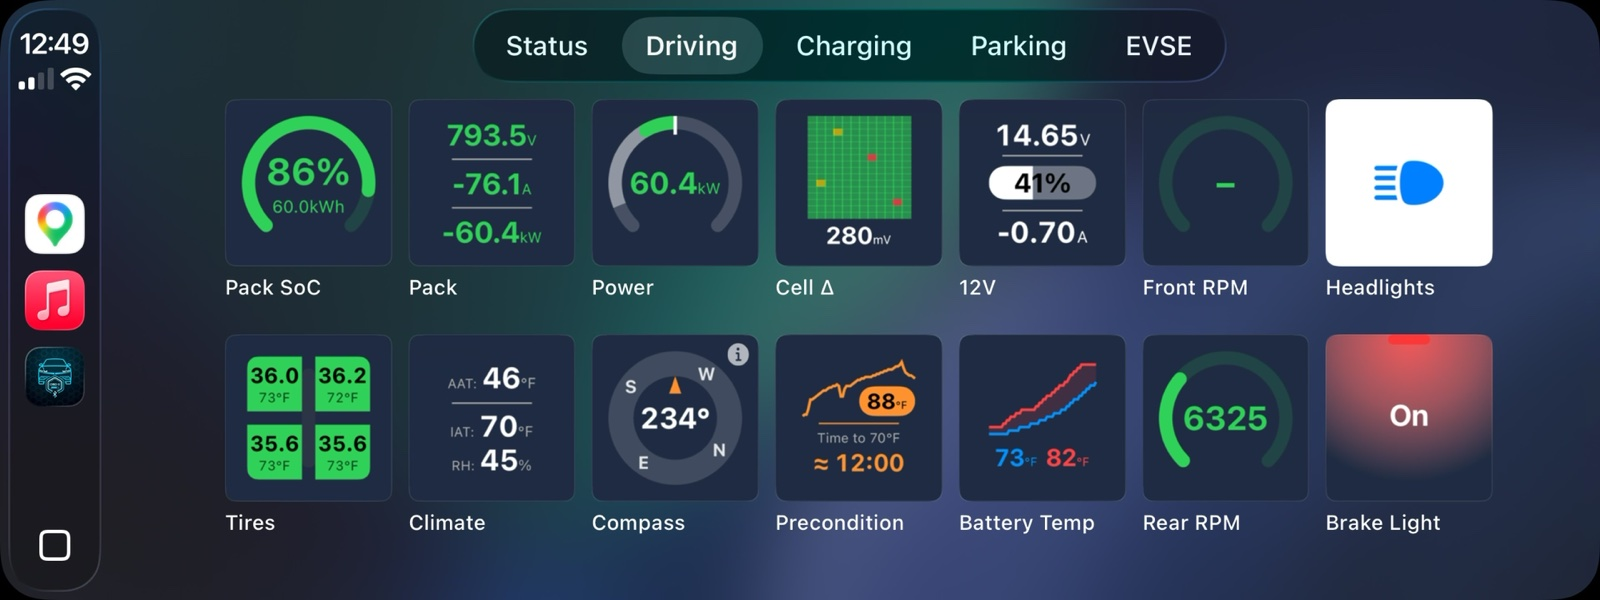
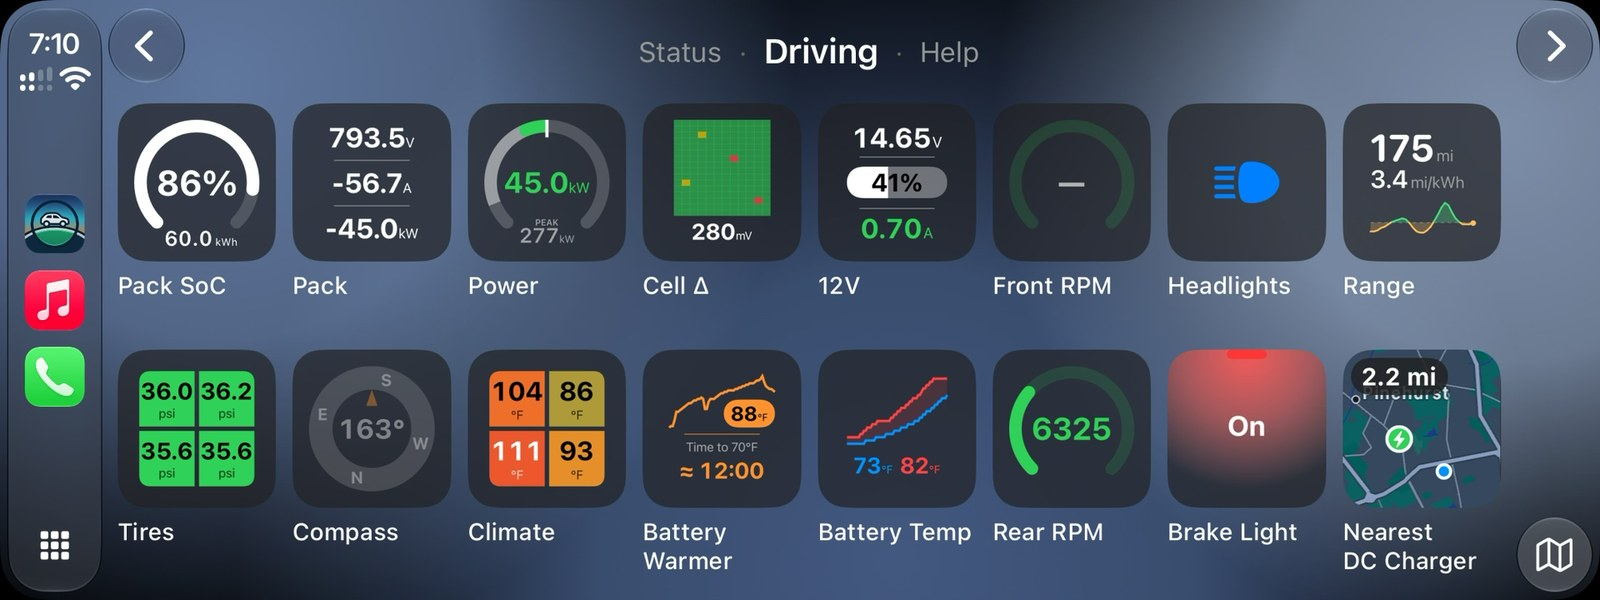
feat(site): EV3 and GV60 ship fully supported, forum link, 3.0 CarPlay shot
Kia EV3 and Genesis GV60 move from "Coming soon" to verified full
support. With nothing left in the second state, the two-state legend on
the landing page and the split headings in features.md would have
implied some vehicles still were not ready, so both collapse to a single
list. The .dot.near CSS stays for the next vehicle that needs it.

Softens the adapter claim in the three places that promised too much.
The landing headline is now "Works with all popular brand name BLE
ELM327 adapters", and support.md follows. This matters because the same
support page documents a $5 unbranded ELM327 that did not work, so "any
ELM327-compatible adapter" contradicted the warning three lines below
it. Dropping "just" from "it just has to be BLE" removes the last of it.

Adds forum.imanevp.com as a Community pill in the nav and the footer.
The four section anchors it replaces were already hidden under 760px, so
they were desktop-only decoration on a page built for scrolling; a
pill-ghost is excluded from that hide rule and survives as an icon. The
hero button still uses #features, so the section ids stay live.

Replaces the CarPlay screenshot with the 3.0 capture. The old one showed
the five-tab bar, seven chips per row and the previous app icon. Same
2.67 aspect, so the slot is unchanged. The first bullet now says range
and nearest DC charger, matching what the new capture actually shows --
its odometer slot holds the compass, which is what the last bullet
describes.
[…]

diff --git a/index.html b/index.html
@@ -9,10 +9,7 @@ nav_exclude: true
 <nav><div class="nav-inner">
   <div class="brand"><img src="{{ '/assets/images/app-icon-64.png' | relative_url }}" alt="">EV Dashboard</div>
   <div class="nav-links">
-    <a href="#features">Features</a>
-    <a href="#carplay">CarPlay</a>
-    <a href="#data">Data</a>
-    <a href="#vehicles">Vehicles</a>
+    <a href="https://forum.imanevp.com" target="_blank" rel="noopener" class="pill-ghost"><span class="material-symbols-outlined">forum</span><span class="label">Community</span></a>
     <a href="https://github.com/gburlingame/ioniq-app/issues" target="_blank" rel="noopener" class="pill-ghost"><span class="material-symbols-outlined">bug_report</span><span class="label">Report an Issue</span></a>
     <a href="https://apps.apple.com/app/id6761347502" target="_blank" rel="noopener" class="pill">Download</a>
   </div>
@@ -83,7 +80,7 @@ nav_exclude: true
       <h2>Your data &mdash; beautifully in CarPlay</h2>
       <p class="lead">No need to look at your phone. The most important numbers live right on your vehicle's main display.</p>
       <ul class="feature-list">
-        <li><span class="material-symbols-outlined">check_circle</span>Two rows of live chips while driving &mdash; SoC, power, odometer, cell delta, motor RPM, climate, tire pressures, and more</li>
+        <li><span class="material-symbols-outlined">check_circle</span>Two rows of live chips while driving &mdash; SoC, power, range, cell delta, motor RPM, climate, tire pressures, nearest DC charger, and more</li>
         <li><span class="material-symbols-outlined">check_circle</span>A Status view when parked: connection, ECU scan, polling headroom, ICCU details</li>
         <li><span class="material-symbols-outlined">check_circle</span>Charging and EVSE views that appear automatically during a session, with a session timer</li>
         <li><span class="material-symbols-outlined">check_circle</span>Swap the odometer chip for a live compass &mdash; tap for a full-screen heading</li>
@@ -212,17 +209,16 @@ nav_exclude: true
     <div class="vchip"><span class="dot full"></span>Kia EV6</div>
     <div class="vchip"><span class="dot full"></span>Kia EV6 GT</div>
     <div class="vchip"><span class="dot full"></span>Kia EV9</div>
-    <div class="vchip"><span class="dot near"></span>Kia EV3</div>
-    <div class="vchip"><span class="dot near"></span>Genesis GV60</div>
+    <div class="vchip"><span class="dot full"></span>Kia EV3</div>
+    <div class="vchip"><span class="dot full"></span>Genesis GV60</div>
   </div>
-  <div class="veh-legend"><span style="color:var(--primary)">&#9679;</span> Verified full support &nbsp;&nbsp; <span style="color:var(--tertiary)">&#9679;</span> Coming soon</div>
 </div></section>
 
 <!-- ADAPTERS -->
 <section id="adapters" class="pad"><div class="wrap center">
   <div class="eyebrow">Which adapter?</div>
-  <h2>Any BLE ELM327 adapter works</h2>
-  <p class="lead center">The app talks to your car through an inexpensive OBD-II adapter. It just has to be <b>Bluetooth Low Energy (BLE)</b>. These are tested and verified:</p>
+  <h2>Works with all popular brand name BLE ELM327 adapters</h2>
+  <p class="lead center">The app talks to your car through an inexpensive OBD-II adapter. It has to be <b>Bluetooth Low Energy (BLE)</b>. These are tested and verified:</p>
   <div class="veh">
     <div class="vchip"><span class="material-symbols-outlined ok">check_circle</span>Vgate vLinker MC+</div>
     <div class="vchip"><span class="material-symbols-outlined ok">check_circle</span>Vgate iCar Pro 2S</div>
@@ -260,6 +256,7 @@ nav_exclude: true
     <div class="foot-brand"><img src="{{ '/assets/images/app-icon-64.png' | relative_url }}" alt="">EV Dashboard</div>
     <div class="foot-links">
       <a href="{{ '/support' | relative_url }}">Support</a>
+      <a href="https://forum.imanevp.com" target="_blank" rel="noopener">Community Forum</a>
       <a href="{{ '/features' | relative_url }}">Full Feature List</a>
       <a href="{{ '/versions' | relative_url }}">Version History</a>
       <a href="{{ '/why-some-features-are-hard' | relative_url }}">Why Some Features Are Hard</a>

diff --git a/support.md b/support.md
@@ -21,7 +21,7 @@ You can also [open an issue on GitHub](https://github.com/gburlingame/ioniq-app/
 
 ## Adapter Compatibility
 
-EV Dashboard works with any ELM327-compatible Bluetooth Low Energy (BLE) adapter. The adapter must be Bluetooth LE (not classic Bluetooth or Wi-Fi).  
+EV Dashboard works with all popular brand name ELM327-compatible Bluetooth Low Energy (BLE) adapters. The adapter must be Bluetooth LE (not classic Bluetooth or Wi-Fi).  
 
 These adapter have been tested and verified to work with EV Dashboard:
 
@@ -69,7 +69,7 @@ The app records your charging and driving sessions and long-term signal history 
 ## Frequently Asked Questions
 
 **Q: Which OBD-II adapters work with this app?**  
-A: Any ELM327-compatible Bluetooth LE adapter. Make sure it's Bluetooth Low Energy (BLE), and not classic Bluetooth or Wi-Fi.
+A: Any popular brand name ELM327-compatible Bluetooth LE adapter. Make sure it's Bluetooth Low Energy (BLE), and not classic Bluetooth or Wi-Fi.
 
 **Q: My adapter isn't connecting.**  
 A: First, verify that you are using a ELM327-compatible Bluetooth LE adapter.  Next, check to make sure that Bluetooth permissions are enabled for EV Dashboard.  Check Settings / Apps / EV Dashboard.  If you continue to have trouble connecting, please reach out to the developer.

diff --git a/features.md b/features.md
@@ -94,9 +94,7 @@ Powerful tools to help enthusiasts learn more about their vehicles, with result 
 
 ## Supported vehicles
 
-The app ships per-vehicle registries with full or partial coverage:
-
-**Verified full support**
+The app ships per-vehicle registries with verified full support for:
 
 * **IONIQ 5**
 * **IONIQ 5 N**
@@ -105,9 +103,6 @@ The app ships per-vehicle registries with full or partial coverage:
 * **Kia EV6**
 * **Kia EV6 GT**
 * **Kia EV9**
-
-**Coming soon**
-
 * **Kia EV3**
 * **Genesis GV60**
 
